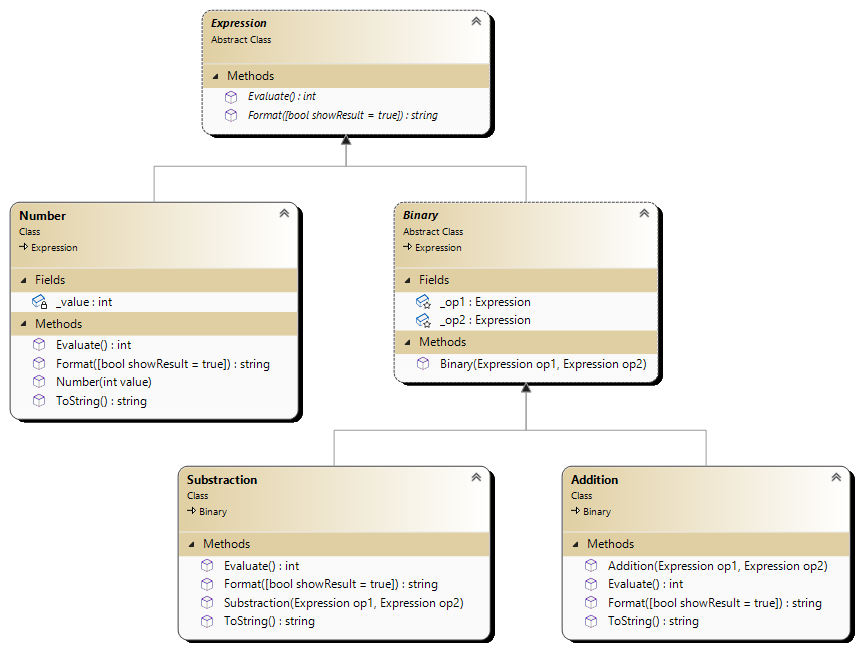
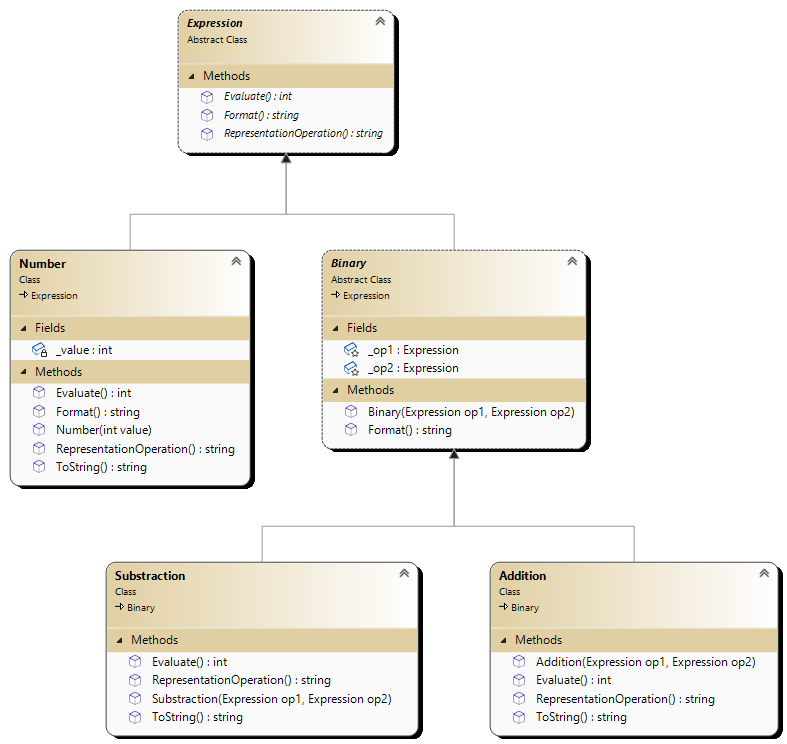
Add final version of exercice expression with composition

diff --git a/conception/CompositionExpression/CompositionExpressionCore/Expressions/Binaries/Substraction.cs b/conception/CompositionExpression/CompositionExpressionCore/Expressions/Binaries/Substraction.cs
@@ -17,41 +17,19 @@ namespace CompositionExpressionCore.Expressions.Binaries
             return _op1.Evaluate() - _op2.Evaluate();
         }
 
-        public override string Format(bool showResult = true)
-        {
-            StringBuilder format = new StringBuilder();
-
-            format.Append(_op1.Format(false));
-            format.Append('-');
-            format.Append(_op2.Format(false));
-
-            if (showResult)
-            {
-                format.Append('=');
-                format.Append(Evaluate());
-            }
-
-            return format.ToString();
-        }
-
-        public override string Format2()
-        {
-            return Operation() + "=" + Evaluate().ToString();
-        }
-
-        public override string Operation()
+        public override string RepresentationOperation()
         {
             StringBuilder format = new StringBuilder();
 
             if (_op1 is Binary)
             {
                 format.Append("(");
-                format.Append(_op1.Operation());
+                format.Append(_op1.RepresentationOperation());
                 format.Append(")");
             }
             else
             {
-                format.Append(_op1.Operation());
+                format.Append(_op1.RepresentationOperation());
             }
 
             format.Append('-');
@@ -59,12 +37,12 @@ namespace CompositionExpressionCore.Expressions.Binaries
             if (_op2 is Binary)
             {
                 format.Append("(");
-                format.Append(_op2.Operation());
+                format.Append(_op2.RepresentationOperation());
                 format.Append(")");
             }
             else
             {
-                format.Append(_op2.Operation());
+                format.Append(_op2.RepresentationOperation());
             }
 
             return format.ToString();
@@ -73,38 +51,6 @@ namespace CompositionExpressionCore.Expressions.Binaries
         public override string ToString()
         {
             return Evaluate().ToString();
-        }
-
-        public override string Format3()
-        {
-
-            StringBuilder format = new StringBuilder();
-
-            int resultOp1 = _op1.Evaluate();
-            int numberDigit = resultOp1.ToString().Length;
-
-            if (numberDigit == _op1.Format3().Length)
-            {
-                format.Append(_op1.Format3());
-            }
-            else
-            {
-                format.Append(_op1.Format3().Substring(0, _op1.Format3().Length - numberDigit - 1));
-            }
-            format.Append('-');
-            if (numberDigit == _op2.Format3().Length)
-            {
-                format.Append(_op2.Format3());
-            }
-            else
-            {
-                format.Append(_op2.Format3().Substring(0, _op2.Format3().Length - numberDigit - 1));
-            }
-
-            format.Append('=');
-            format.Append(Evaluate());
-
-            return format.ToString();
         }
     }
 }

diff --git a/conception/CompositionExpression/CompositionExpressionCore/Expressions/Binaries/Addition.cs b/conception/CompositionExpression/CompositionExpressionCore/Expressions/Binaries/Addition.cs
@@ -17,35 +17,13 @@ namespace CompositionExpressionCore.Expressions.Binaries
             return _op1.Evaluate() + _op2.Evaluate();
         }
 
-        public override string Format(bool showResult = true)
+        public override string RepresentationOperation()
         {
             StringBuilder format = new StringBuilder();
 
-            format.Append(_op1.Format(false));
+            format.Append(_op1.RepresentationOperation());
             format.Append('+');
-            format.Append(_op2.Format(false));
-
-            if (showResult)
-            {
-                format.Append('=');
-                format.Append(Evaluate());
-            }
-
-            return format.ToString();
-        }
-
-        public override string Format2()
-        {
-            return Operation() + "=" + Evaluate().ToString();
-        }
-
-        public override string Operation()
-        {
-            StringBuilder format = new StringBuilder();
-
-            format.Append(_op1.Operation());
-            format.Append('+');
-            format.Append(_op2.Operation());
+            format.Append(_op2.RepresentationOperation());
 
             return format.ToString();
         }
@@ -53,37 +31,6 @@ namespace CompositionExpressionCore.Expressions.Binaries
         public override string ToString()
         {
             return Evaluate().ToString();
-        }
-
-        public override string Format3()
-        {
-            StringBuilder format = new StringBuilder();
-
-            int resultOp1 = _op1.Evaluate();
-            int numberDigit = resultOp1.ToString().Length;
-
-            if (numberDigit == _op1.Format3().Length)
-            {
-                format.Append(_op1.Format3());
-            }
-            else
-            {
-                format.Append(_op1.Format3().Substring(0, _op1.Format3().Length - numberDigit - 1));
-            }
-            format.Append('+');
-            if (numberDigit == _op2.Format3().Length)
-            {
-                format.Append(_op2.Format3());
-            }
-            else
-            {
-                format.Append(_op2.Format3().Substring(0, _op2.Format3().Length - numberDigit - 1));
-            }
-
-            format.Append('=');
-            format.Append(Evaluate());
-
-            return format.ToString();
         }
     }
 }

diff --git a/conception/CompositionExpression/CompositionExpressionDemo/Program.cs b/conception/CompositionExpression/CompositionExpressionDemo/Program.cs
@@ -24,11 +24,18 @@ Console.WriteLine(exp3.Format2() + '\n');
 Console.WriteLine(exp4.Format2() + '\n');
 Console.WriteLine(exp5.Format2() + '\n');
 
-Expression cyrilExp1 = new Substraction(new Number(2), new Number(3));
+/*Expression cyrilExp1 = new Substraction(new Number(2), new Number(3));
 Console.WriteLine(cyrilExp1);
 
 Expression cyrilExp2 = new Substraction(new Number(89), cyrilExp1);
 Console.WriteLine(cyrilExp2.Format2());
 
 Expression toto = new Addition(new Addition(new Number(2), new Number(5)), new Number(3));
-Console.WriteLine(toto.Format3());
+Console.WriteLine(toto.Format3());*/
+
+Console.WriteLine(new Number(1).Format3() + '\n');
+Console.WriteLine(exp1.Format3() + '\n');
+Console.WriteLine(exp2.Format3() + '\n');
+Console.WriteLine(exp3.Format3() + '\n');
+Console.WriteLine(exp4.Format3() + '\n');
+Console.WriteLine(exp5.Format3() + '\n');

diff --git a/conception/CompositionExpression/CompositionExpressionCore/Expressions/Number.cs b/conception/CompositionExpression/CompositionExpressionCore/Expressions/Number.cs
@@ -20,22 +20,12 @@ namespace CompositionExpressionCore.Expressions
             return _value;
         }
 
-        public override string Format(bool showResult = true)
+        public override string Format()
         {
             return ToString();
         }
 
-        public override string Format2()
-        {
-            return ToString();
-        }
-
-        public override string Format3()
-        {
-            return ToString();
-        }
-
-        public override string Operation()
+        public override string RepresentationOperation()
         {
             return ToString();
         }

diff --git a/conception/CompositionExpression/CompositionExpressionCore/Expression.cs b/conception/CompositionExpression/CompositionExpressionCore/Expression.cs
@@ -3,9 +3,7 @@
     public abstract class Expression
     {
         public abstract int Evaluate();
-        public abstract string Format(bool showResult = true);
-        public abstract string Format2();
-        public abstract string Operation();
-        public abstract string Format3();
+        public abstract string Format();
+        public abstract string RepresentationOperation();
     }
 }

diff --git a/conception/CompositionExpression/CompositionExpressionCore/Expressions/Binary.cs b/conception/CompositionExpression/CompositionExpressionCore/Expressions/Binary.cs
@@ -16,5 +16,10 @@ namespace CompositionExpressionCore.Expressions
             _op1 = op1;
             _op2 = op2;
         }
+
+        public override string Format()
+        {
+            return RepresentationOperation() + "=" + Evaluate().ToString();
+        }
     }
 }
